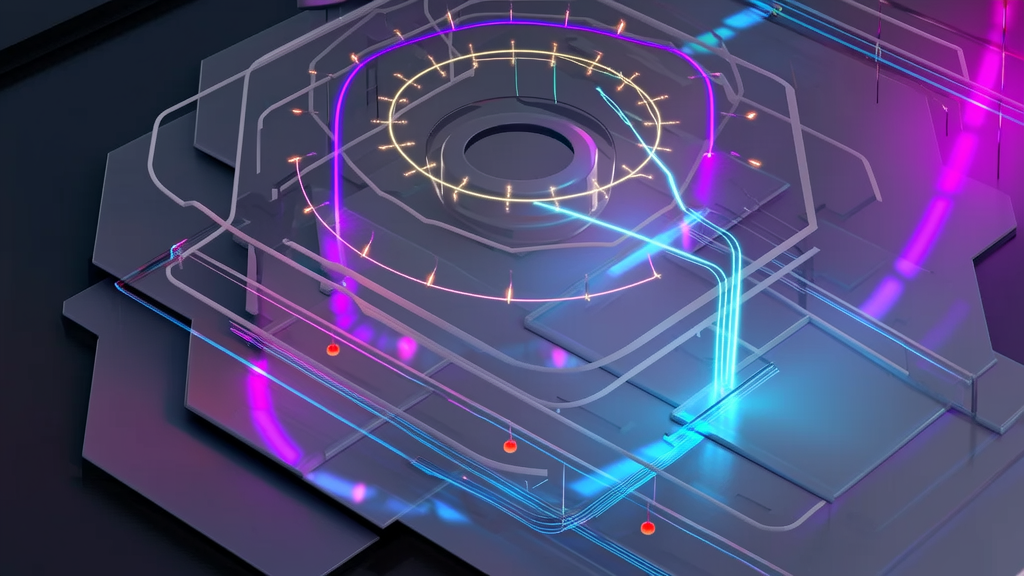
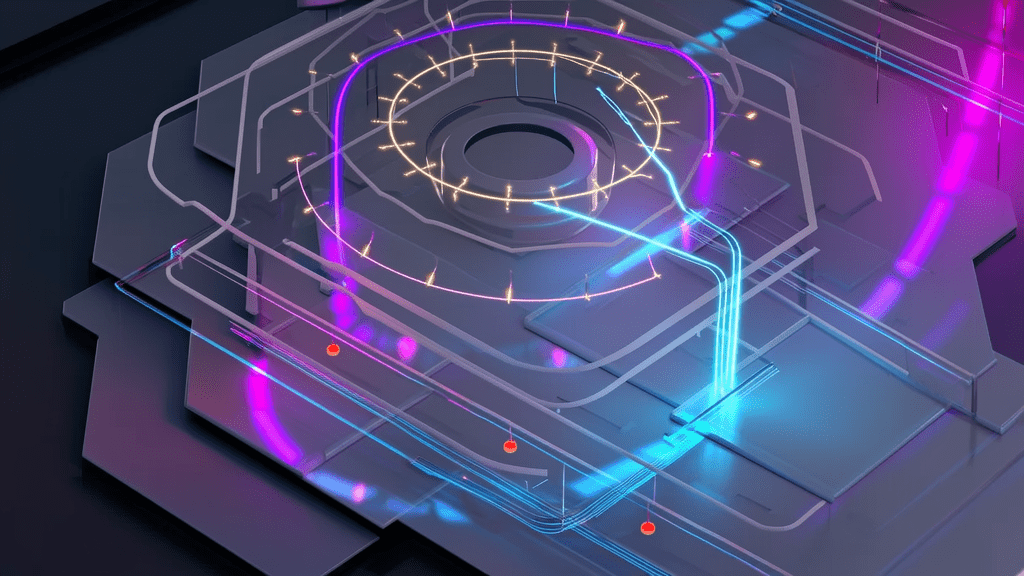
perf: conditional KaTeX, preconnect hints, CSS preload, OSS image processing, compress covers

diff --git a/themes/chenk/layouts/partials/head.html b/themes/chenk/layouts/partials/head.html
@@ -132,16 +132,27 @@
 </script>
 {{ end }}
 
-<!-- Fonts -->
+<!-- Resource hints -->
 <link rel="preconnect" href="https://fonts.googleapis.com">
 <link rel="preconnect" href="https://fonts.gstatic.com" crossorigin>
+<link rel="preconnect" href="https://cdn.jsdelivr.net" crossorigin>
+<link rel="dns-prefetch" href="https://cdn.jsdelivr.net">
+<link rel="preconnect" href="https://blog-pic-ck.oss-cn-beijing.aliyuncs.com">
+<link rel="dns-prefetch" href="https://blog-pic-ck.oss-cn-beijing.aliyuncs.com">
+
+<!-- Fonts -->
 <link rel="stylesheet" href="https://fonts.googleapis.com/css2?family=Source+Serif+Pro:ital,wght@0,400;0,600;0,700;1,400;1,600&family=Inter:wght@400;500;600;700&family=JetBrains+Mono:wght@400;500;600&display=swap">
 
-<!-- KaTeX -->
+<!-- KaTeX (only on pages with math content) -->
+{{- $hasMath := or .Params.math (findRE `\$\$|\\\(|\\\[|\\frac|\\sum|\\int` .RawContent) -}}
+{{ if $hasMath }}
 <link rel="stylesheet" href="https://cdn.jsdelivr.net/npm/katex@0.16.9/dist/katex.min.css">
 <script defer src="https://cdn.jsdelivr.net/npm/katex@0.16.9/dist/katex.min.js"
   onload="document.querySelectorAll('.math-inline,.math-block').forEach(function(el){var t=el.textContent,d=el.classList.contains('math-block');t=d?t.replace(/^\$\$/,'').replace(/\$\$$/,''):t.replace(/^\$/,'').replace(/\$$/,'');try{katex.render(t,el,{displayMode:d,throwOnError:false})}catch(e){}})"></script>
+{{ end }}
 
+<!-- CSS (preloaded) -->
+<link rel="preload" href="{{ $css.RelPermalink }}" as="style">
 <link rel="stylesheet" href="{{ $css.RelPermalink }}">
 <script defer src="{{ $js.RelPermalink }}"></script>
 

diff --git a/themes/chenk/layouts/_default/_markup/render-image.html b/themes/chenk/layouts/_default/_markup/render-image.html
@@ -1,7 +1,11 @@
 {{- $src := .Destination | safeURL -}}
 {{- $alt := .Text -}}
 {{- $title := .Title -}}
+{{- $ossProcess := "" -}}
+{{- if strings.Contains (string $src) "blog-pic-ck.oss-cn-beijing.aliyuncs.com" -}}
+  {{- $ossProcess = "?x-oss-process=image/format,webp/quality,q_85/resize,w_800" -}}
+{{- end -}}
 <figure class="article-figure">
-  <img src="{{ $src }}" alt="{{ $alt }}" loading="lazy" decoding="async"{{ with $title }} title="{{ . }}"{{ end }} class="content-image">
+  <img src="{{ $src }}{{ $ossProcess }}" alt="{{ $alt }}" loading="lazy" decoding="async"{{ with $title }} title="{{ . }}"{{ end }} class="content-image">
   {{ with $title }}<figcaption>{{ . }}</figcaption>{{ end }}
 </figure>